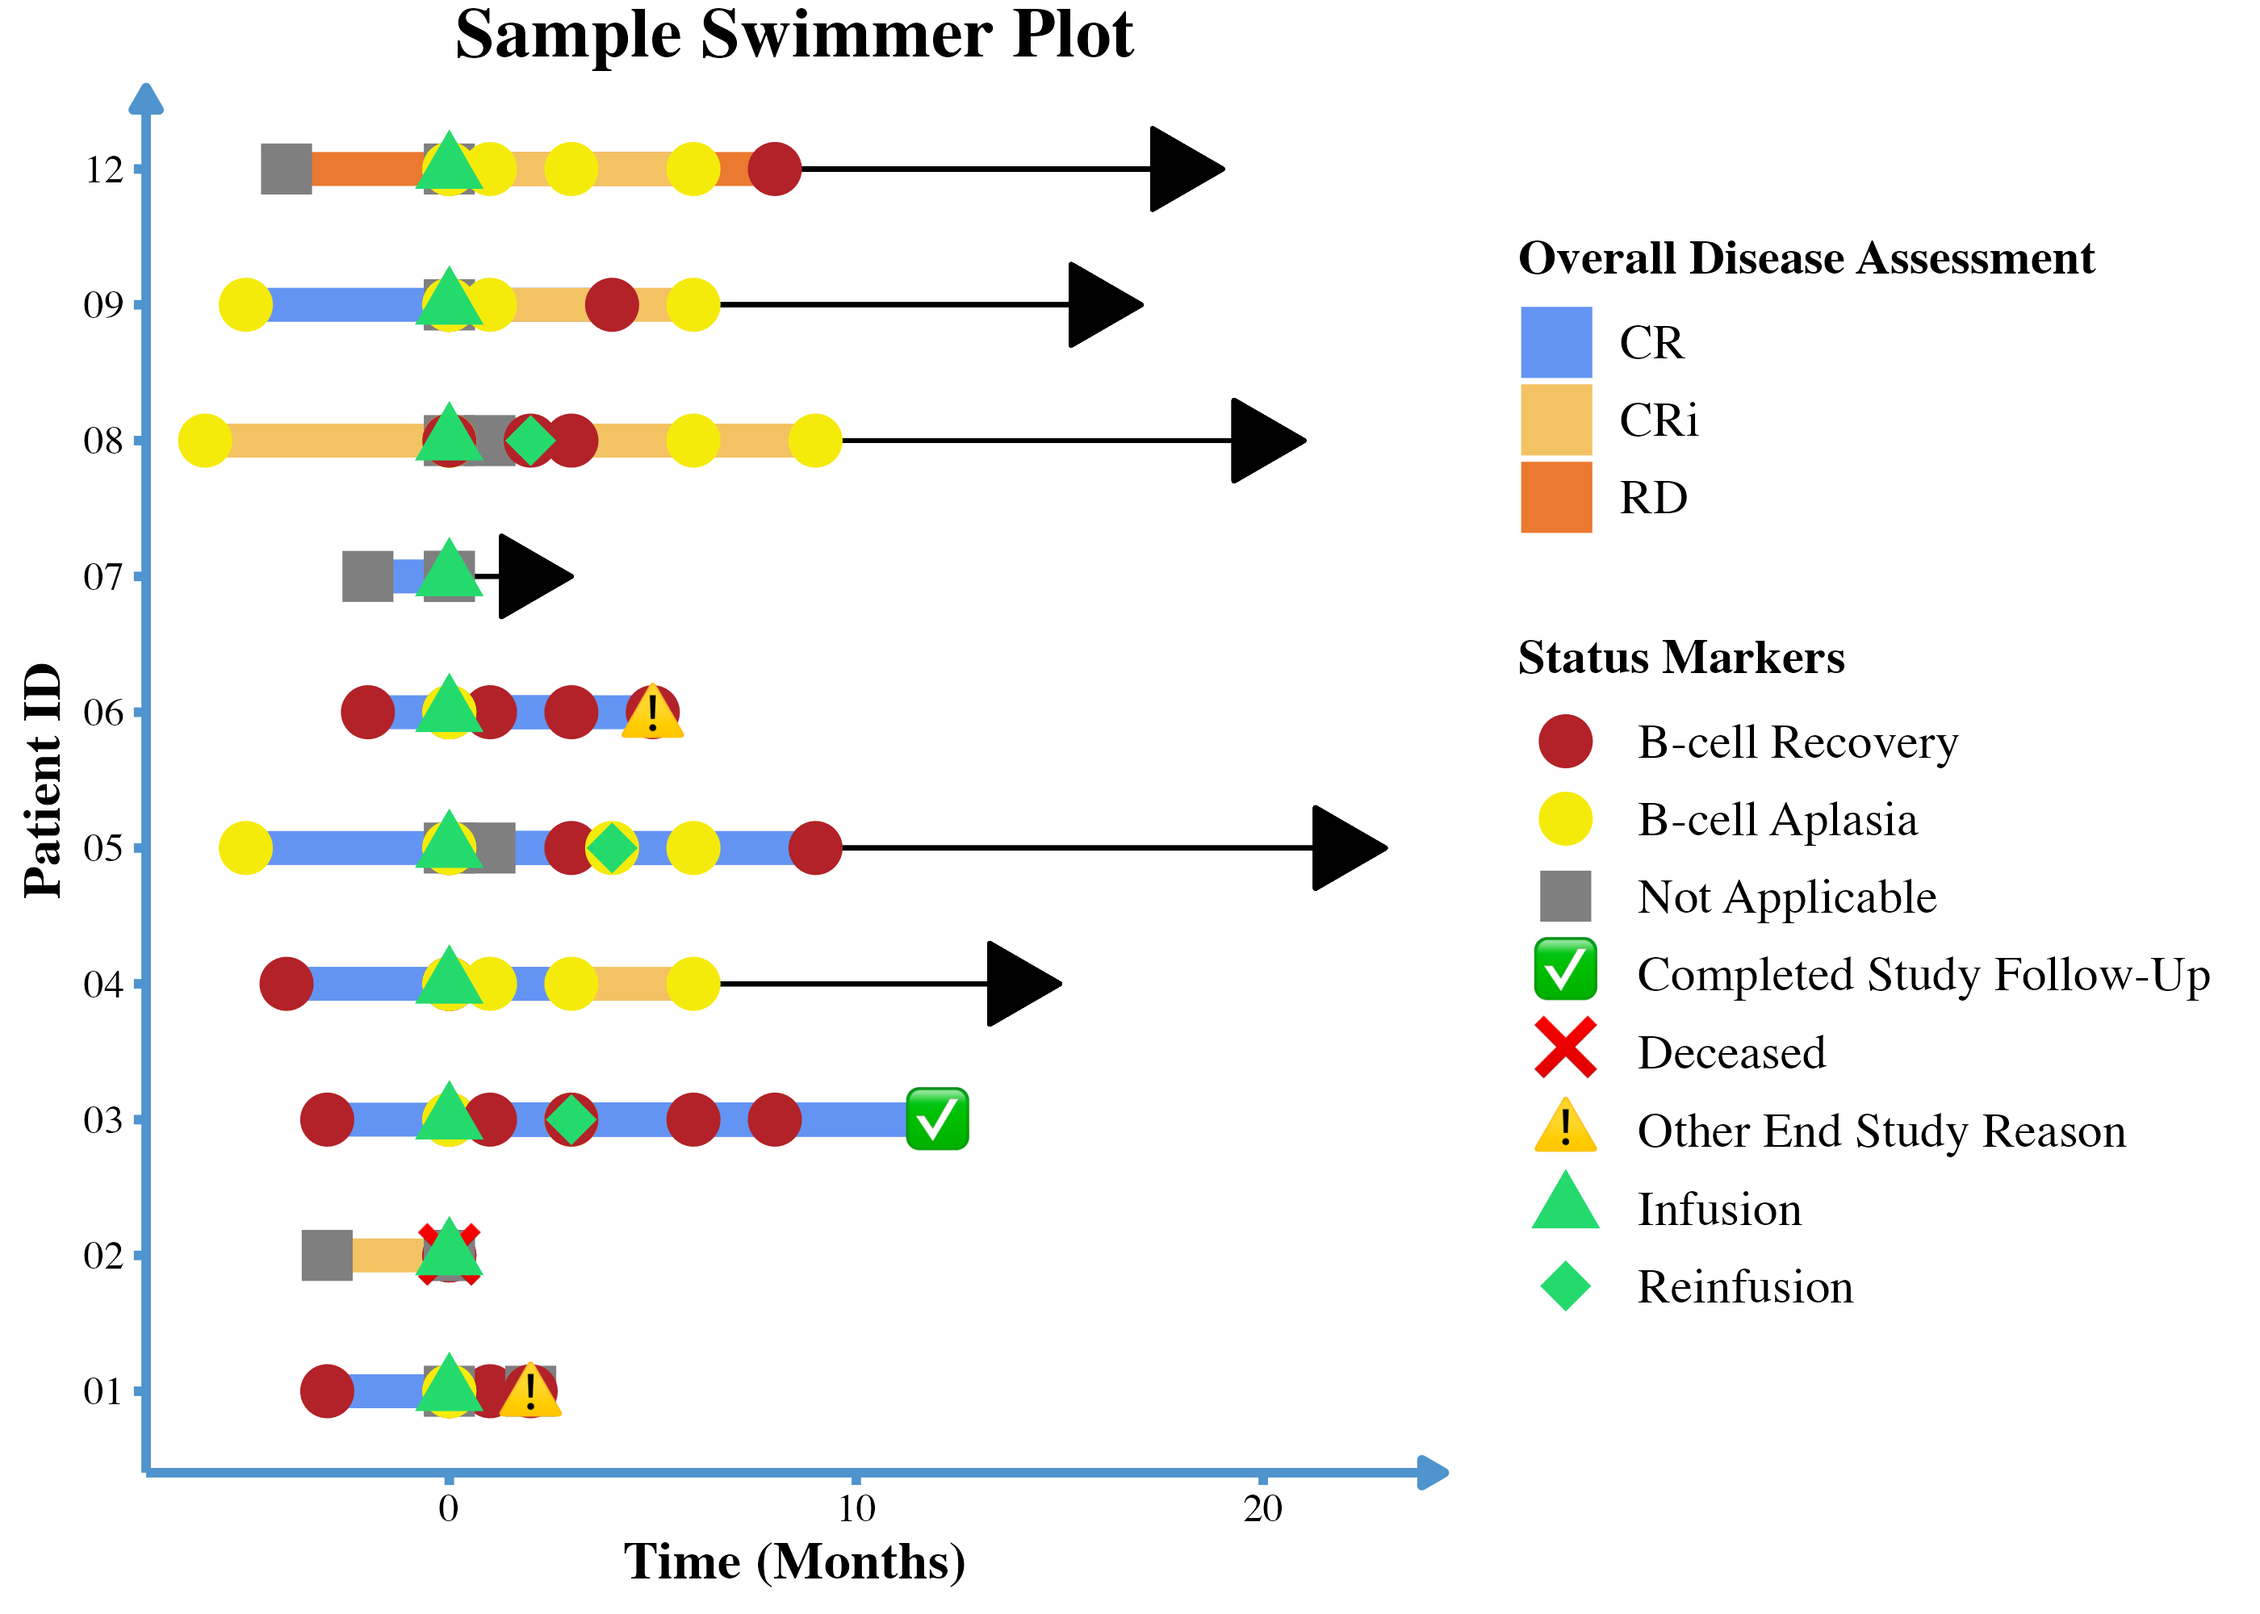
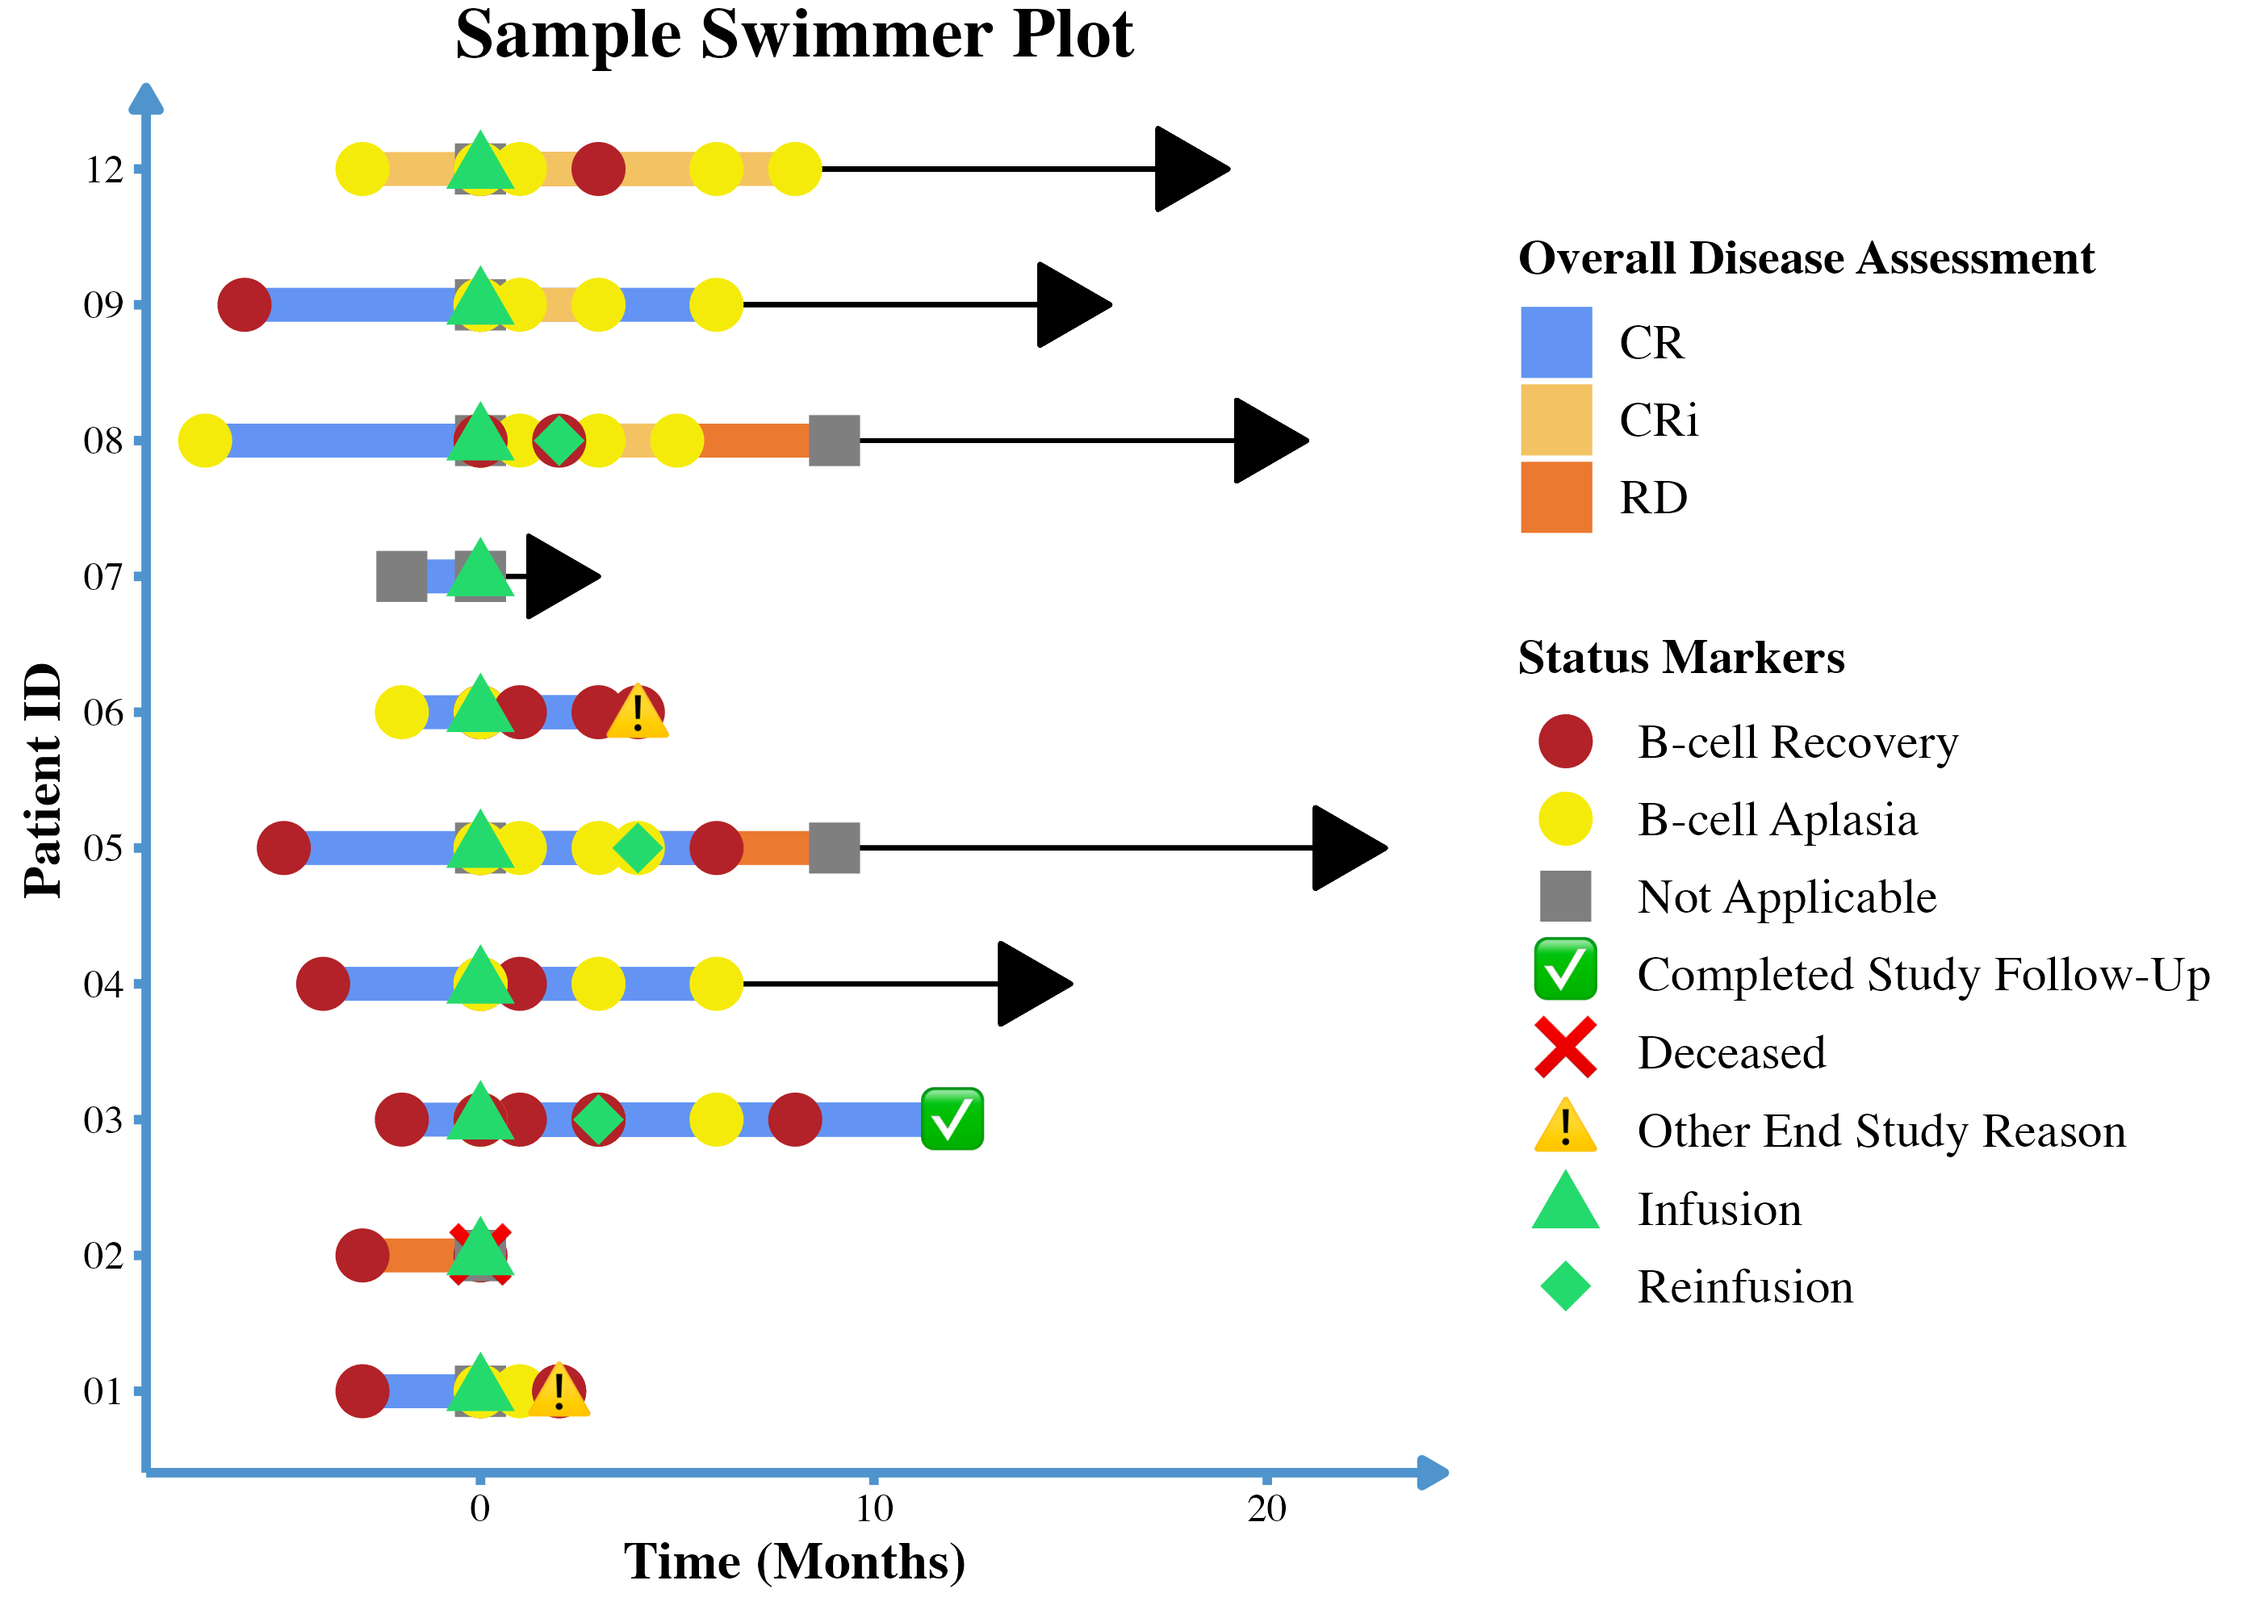
Update datasets, fix images

diff --git a/README.md b/README.md
@@ -76,7 +76,7 @@ p <- p +
   ) +
   add_marker(
     data = infusion_events,
-    aes(x = infusion_delta_t0, y = pt_id, color = infusion_type, shape = infusion_type),
+    aes(x = infusion_delta_t0_months, y = pt_id, color = infusion_type, shape = infusion_type),
     size = 5, position = "identity", alpha = 1
   ) 
 ```
